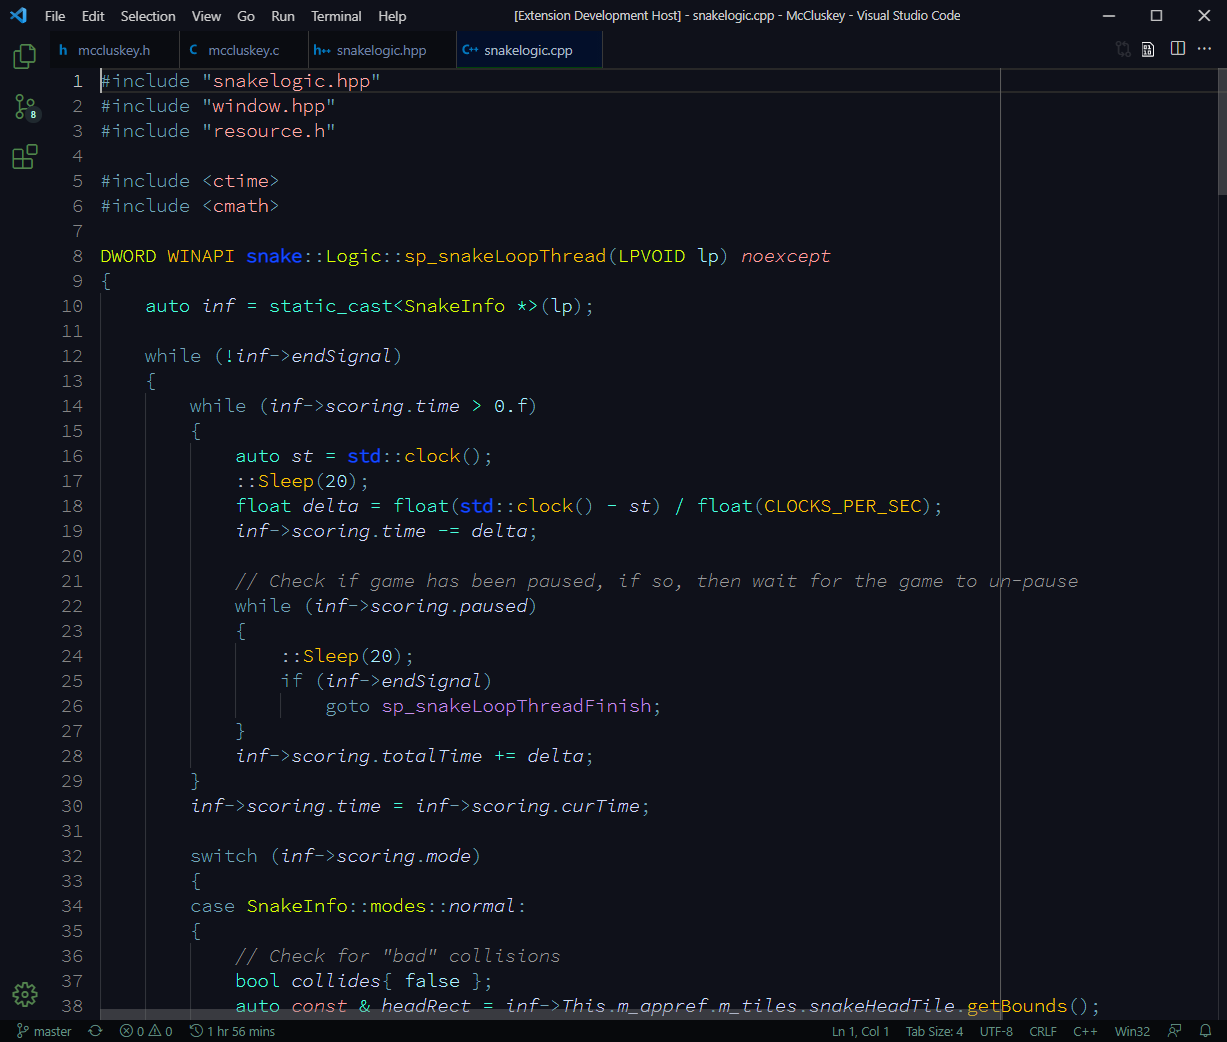
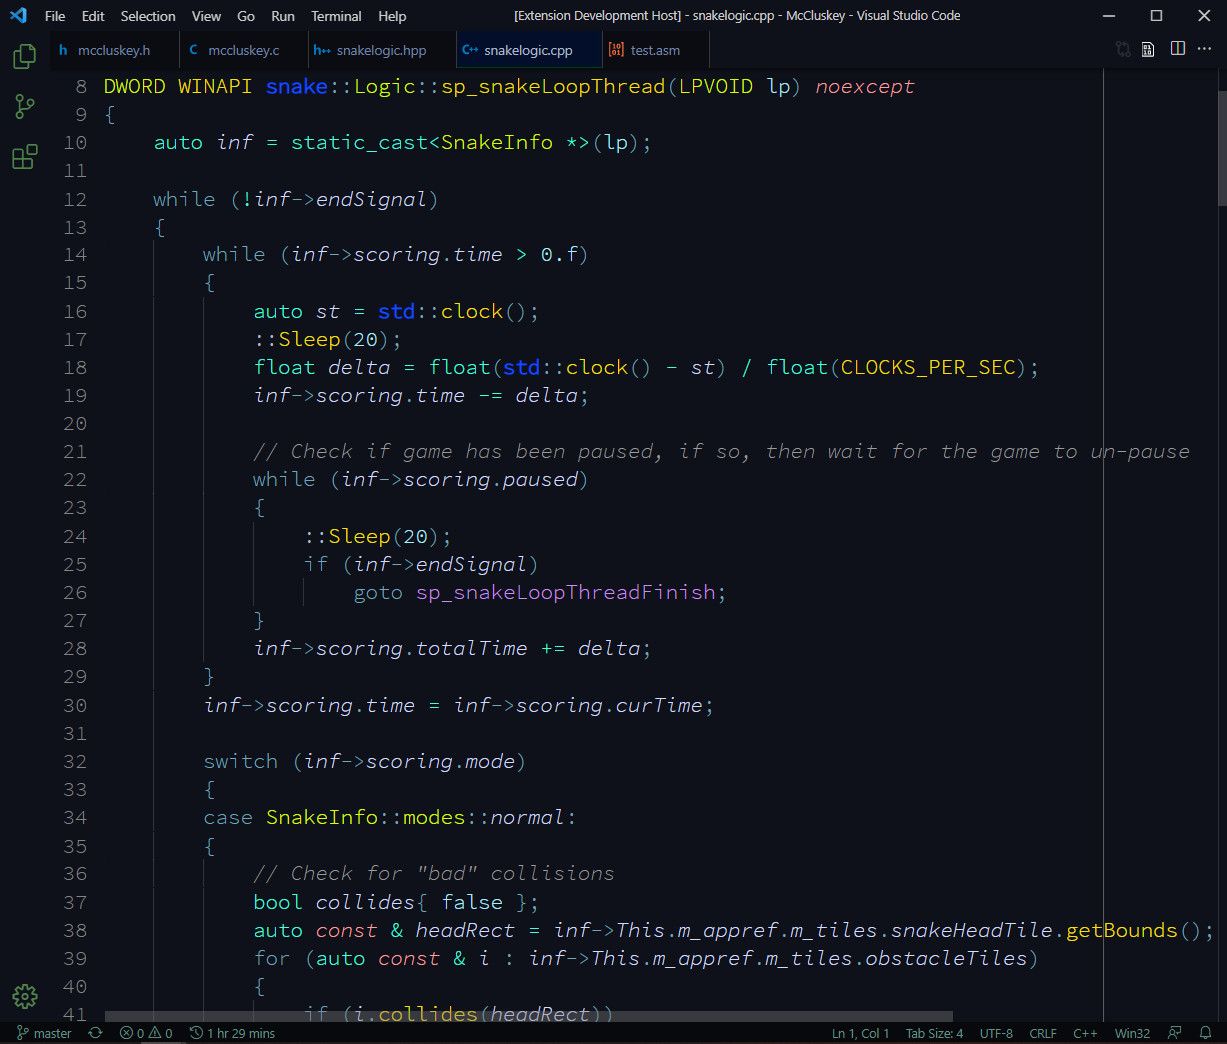
Update 0.5.0

diff --git a/README.md b/README.md
@@ -5,6 +5,9 @@ A colorful theme utilising 2 primary colors - green and blue.
 
 # Changelog
 
+* v 0.5.0
+	* make function names deep yellow
+	
 * v 0.0.3
 	* remove bold function names and custom types
 
